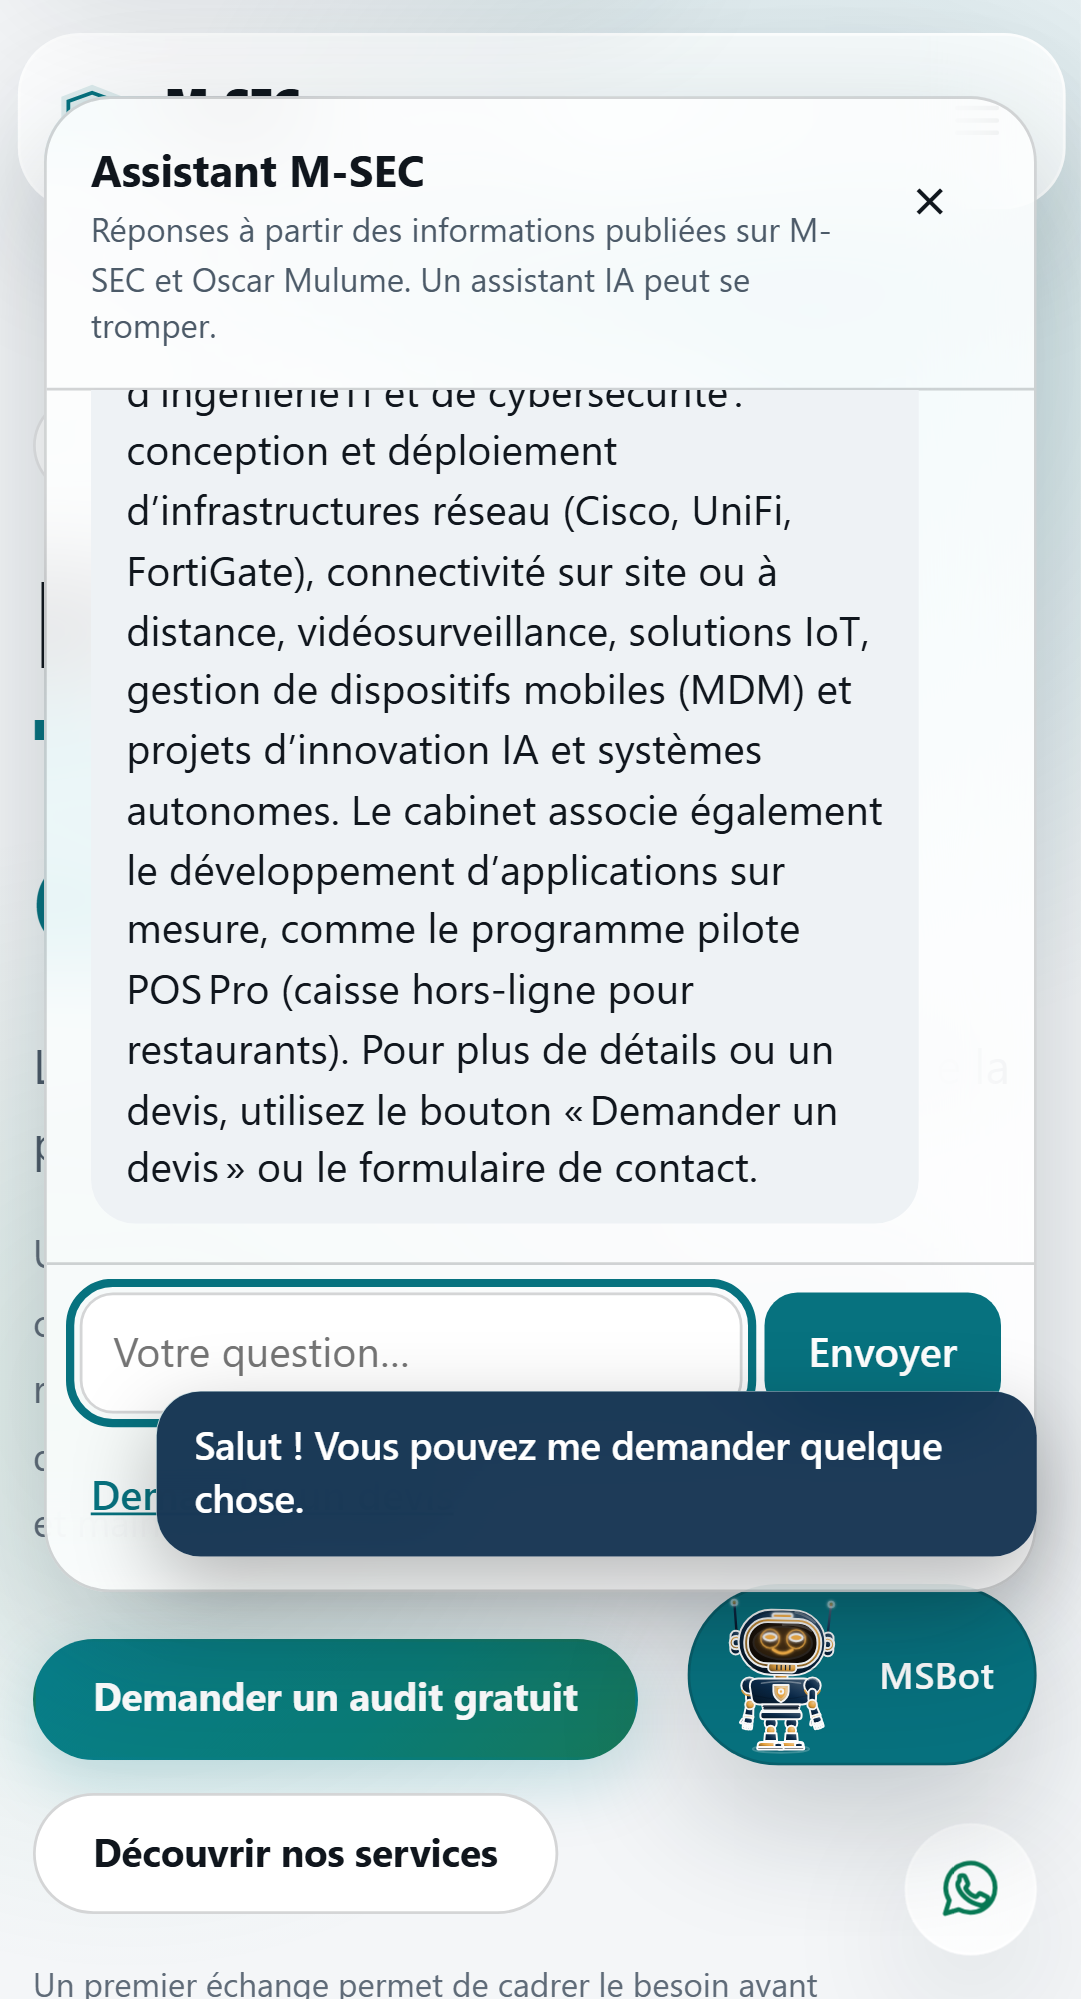
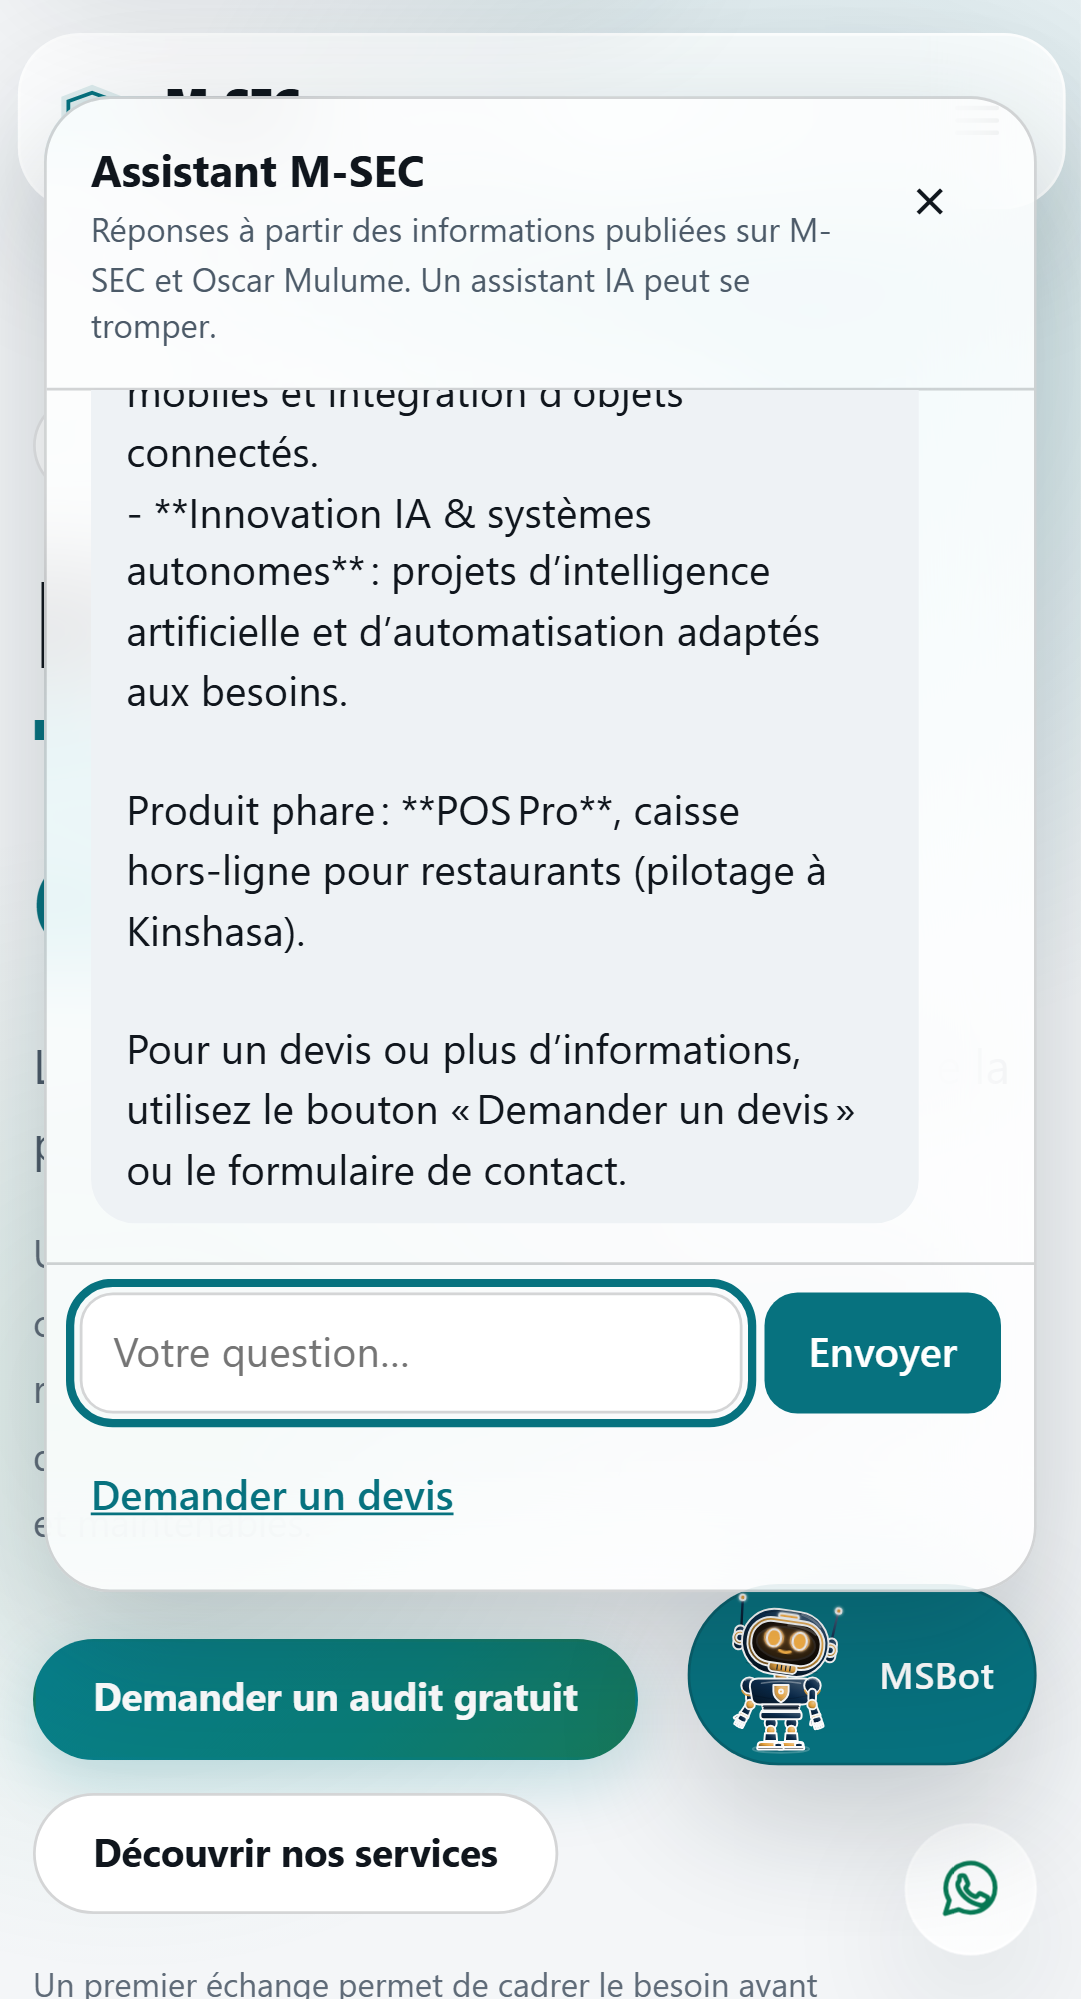
msbot: gras Markdown rendu par le DOM, script de preuve avec nouvel essai

Changed region(s): [[0.1221, 0.1861, 0.7937, 0.5893], [0.1221, 0.6823, 0.9769, 0.8684]]

diff --git a/public/assistant/msec-assistant.js b/public/assistant/msec-assistant.js
@@ -2098,13 +2098,27 @@
     .vh { position: absolute; width: 1px; height: 1px; overflow: hidden; clip: rect(0 0 0 0); white-space: nowrap; }
   `;
     const BUBBLE_ICON = '<svg viewBox="0 0 24 24" aria-hidden="true" focusable="false"><path d="M21 12a8 8 0 0 1-11.6 7.1L4 20.5l1.5-4.6A8 8 0 1 1 21 12Z"/><path d="M9 11h6M9 14h4"/></svg>';
+    function appendText(parent, str) {
+        const parts = String(str).split(/\*\*([^*\n]{1,160})\*\*/);
+        for (let i = 0; i < parts.length; i++) {
+            if (!parts[i])
+                continue;
+            if (i % 2) {
+                const strong = document.createElement('strong');
+                strong.textContent = parts[i];
+                parent.append(strong);
+            }
+            else
+                parent.append(parts[i]);
+        }
+    }
     function appendRich(parent, text) {
         const pattern = /\[([^\]]{1,120})\]\((https:\/\/[^\s)]+)\)|(https:\/\/[^\s<>)\]]+[^\s<>)\].,;:!?])/g;
         let last = 0;
         let match;
         while ((match = pattern.exec(text)) !== null) {
             if (match.index > last)
-                parent.append(text.slice(last, match.index));
+                appendText(parent, text.slice(last, match.index));
             const link = document.createElement('a');
             link.href = match[2] || match[3];
             link.textContent = match[1] || match[3];
@@ -2114,7 +2128,7 @@
             last = pattern.lastIndex;
         }
         if (last < text.length)
-            parent.append(text.slice(last));
+            appendText(parent, text.slice(last));
     }
     function el(tag, props = {}, children = []) {
         const node = document.createElement(tag);

diff --git a/public/assistant/v2/msec-assistant.js b/public/assistant/v2/msec-assistant.js
@@ -2098,13 +2098,27 @@
     .vh { position: absolute; width: 1px; height: 1px; overflow: hidden; clip: rect(0 0 0 0); white-space: nowrap; }
   `;
     const BUBBLE_ICON = '<svg viewBox="0 0 24 24" aria-hidden="true" focusable="false"><path d="M21 12a8 8 0 0 1-11.6 7.1L4 20.5l1.5-4.6A8 8 0 1 1 21 12Z"/><path d="M9 11h6M9 14h4"/></svg>';
+    function appendText(parent, str) {
+        const parts = String(str).split(/\*\*([^*\n]{1,160})\*\*/);
+        for (let i = 0; i < parts.length; i++) {
+            if (!parts[i])
+                continue;
+            if (i % 2) {
+                const strong = document.createElement('strong');
+                strong.textContent = parts[i];
+                parent.append(strong);
+            }
+            else
+                parent.append(parts[i]);
+        }
+    }
     function appendRich(parent, text) {
         const pattern = /\[([^\]]{1,120})\]\((https:\/\/[^\s)]+)\)|(https:\/\/[^\s<>)\]]+[^\s<>)\].,;:!?])/g;
         let last = 0;
         let match;
         while ((match = pattern.exec(text)) !== null) {
             if (match.index > last)
-                parent.append(text.slice(last, match.index));
+                appendText(parent, text.slice(last, match.index));
             const link = document.createElement('a');
             link.href = match[2] || match[3];
             link.textContent = match[1] || match[3];
@@ -2114,7 +2128,7 @@
             last = pattern.lastIndex;
         }
         if (last < text.length)
-            parent.append(text.slice(last));
+            appendText(parent, text.slice(last));
     }
     function el(tag, props = {}, children = []) {
         const node = document.createElement(tag);

diff --git a/src/assistant/msec-assistant.src.js b/src/assistant/msec-assistant.src.js
@@ -248,12 +248,25 @@
     '<svg viewBox="0 0 24 24" aria-hidden="true" focusable="false"><path d="M21 12a8 8 0 0 1-11.6 7.1L4 20.5l1.5-4.6A8 8 0 1 1 21 12Z"/><path d="M9 11h6M9 14h4"/></svg>';
 
   /** Texte brut -> nœuds DOM : liens https cliquables uniquement, jamais d'HTML injecté. */
+  /** Texte avec **gras** : elements DOM uniquement (jamais de HTML injecte). */
+  function appendText(parent, str) {
+    const parts = String(str).split(/\*\*([^*\n]{1,160})\*\*/);
+    for (let i = 0; i < parts.length; i++) {
+      if (!parts[i]) continue;
+      if (i % 2) {
+        const strong = document.createElement('strong');
+        strong.textContent = parts[i];
+        parent.append(strong);
+      } else parent.append(parts[i]);
+    }
+  }
+
   function appendRich(parent, text) {
     const pattern = /\[([^\]]{1,120})\]\((https:\/\/[^\s)]+)\)|(https:\/\/[^\s<>)\]]+[^\s<>)\].,;:!?])/g;
     let last = 0;
     let match;
     while ((match = pattern.exec(text)) !== null) {
-      if (match.index > last) parent.append(text.slice(last, match.index));
+      if (match.index > last) appendText(parent, text.slice(last, match.index));
       const link = document.createElement('a');
       link.href = match[2] || match[3];
       link.textContent = match[1] || match[3];
@@ -262,7 +275,7 @@
       parent.append(link);
       last = pattern.lastIndex;
     }
-    if (last < text.length) parent.append(text.slice(last));
+    if (last < text.length) appendText(parent, text.slice(last));
   }
 
   function el(tag, props = {}, children = []) {
